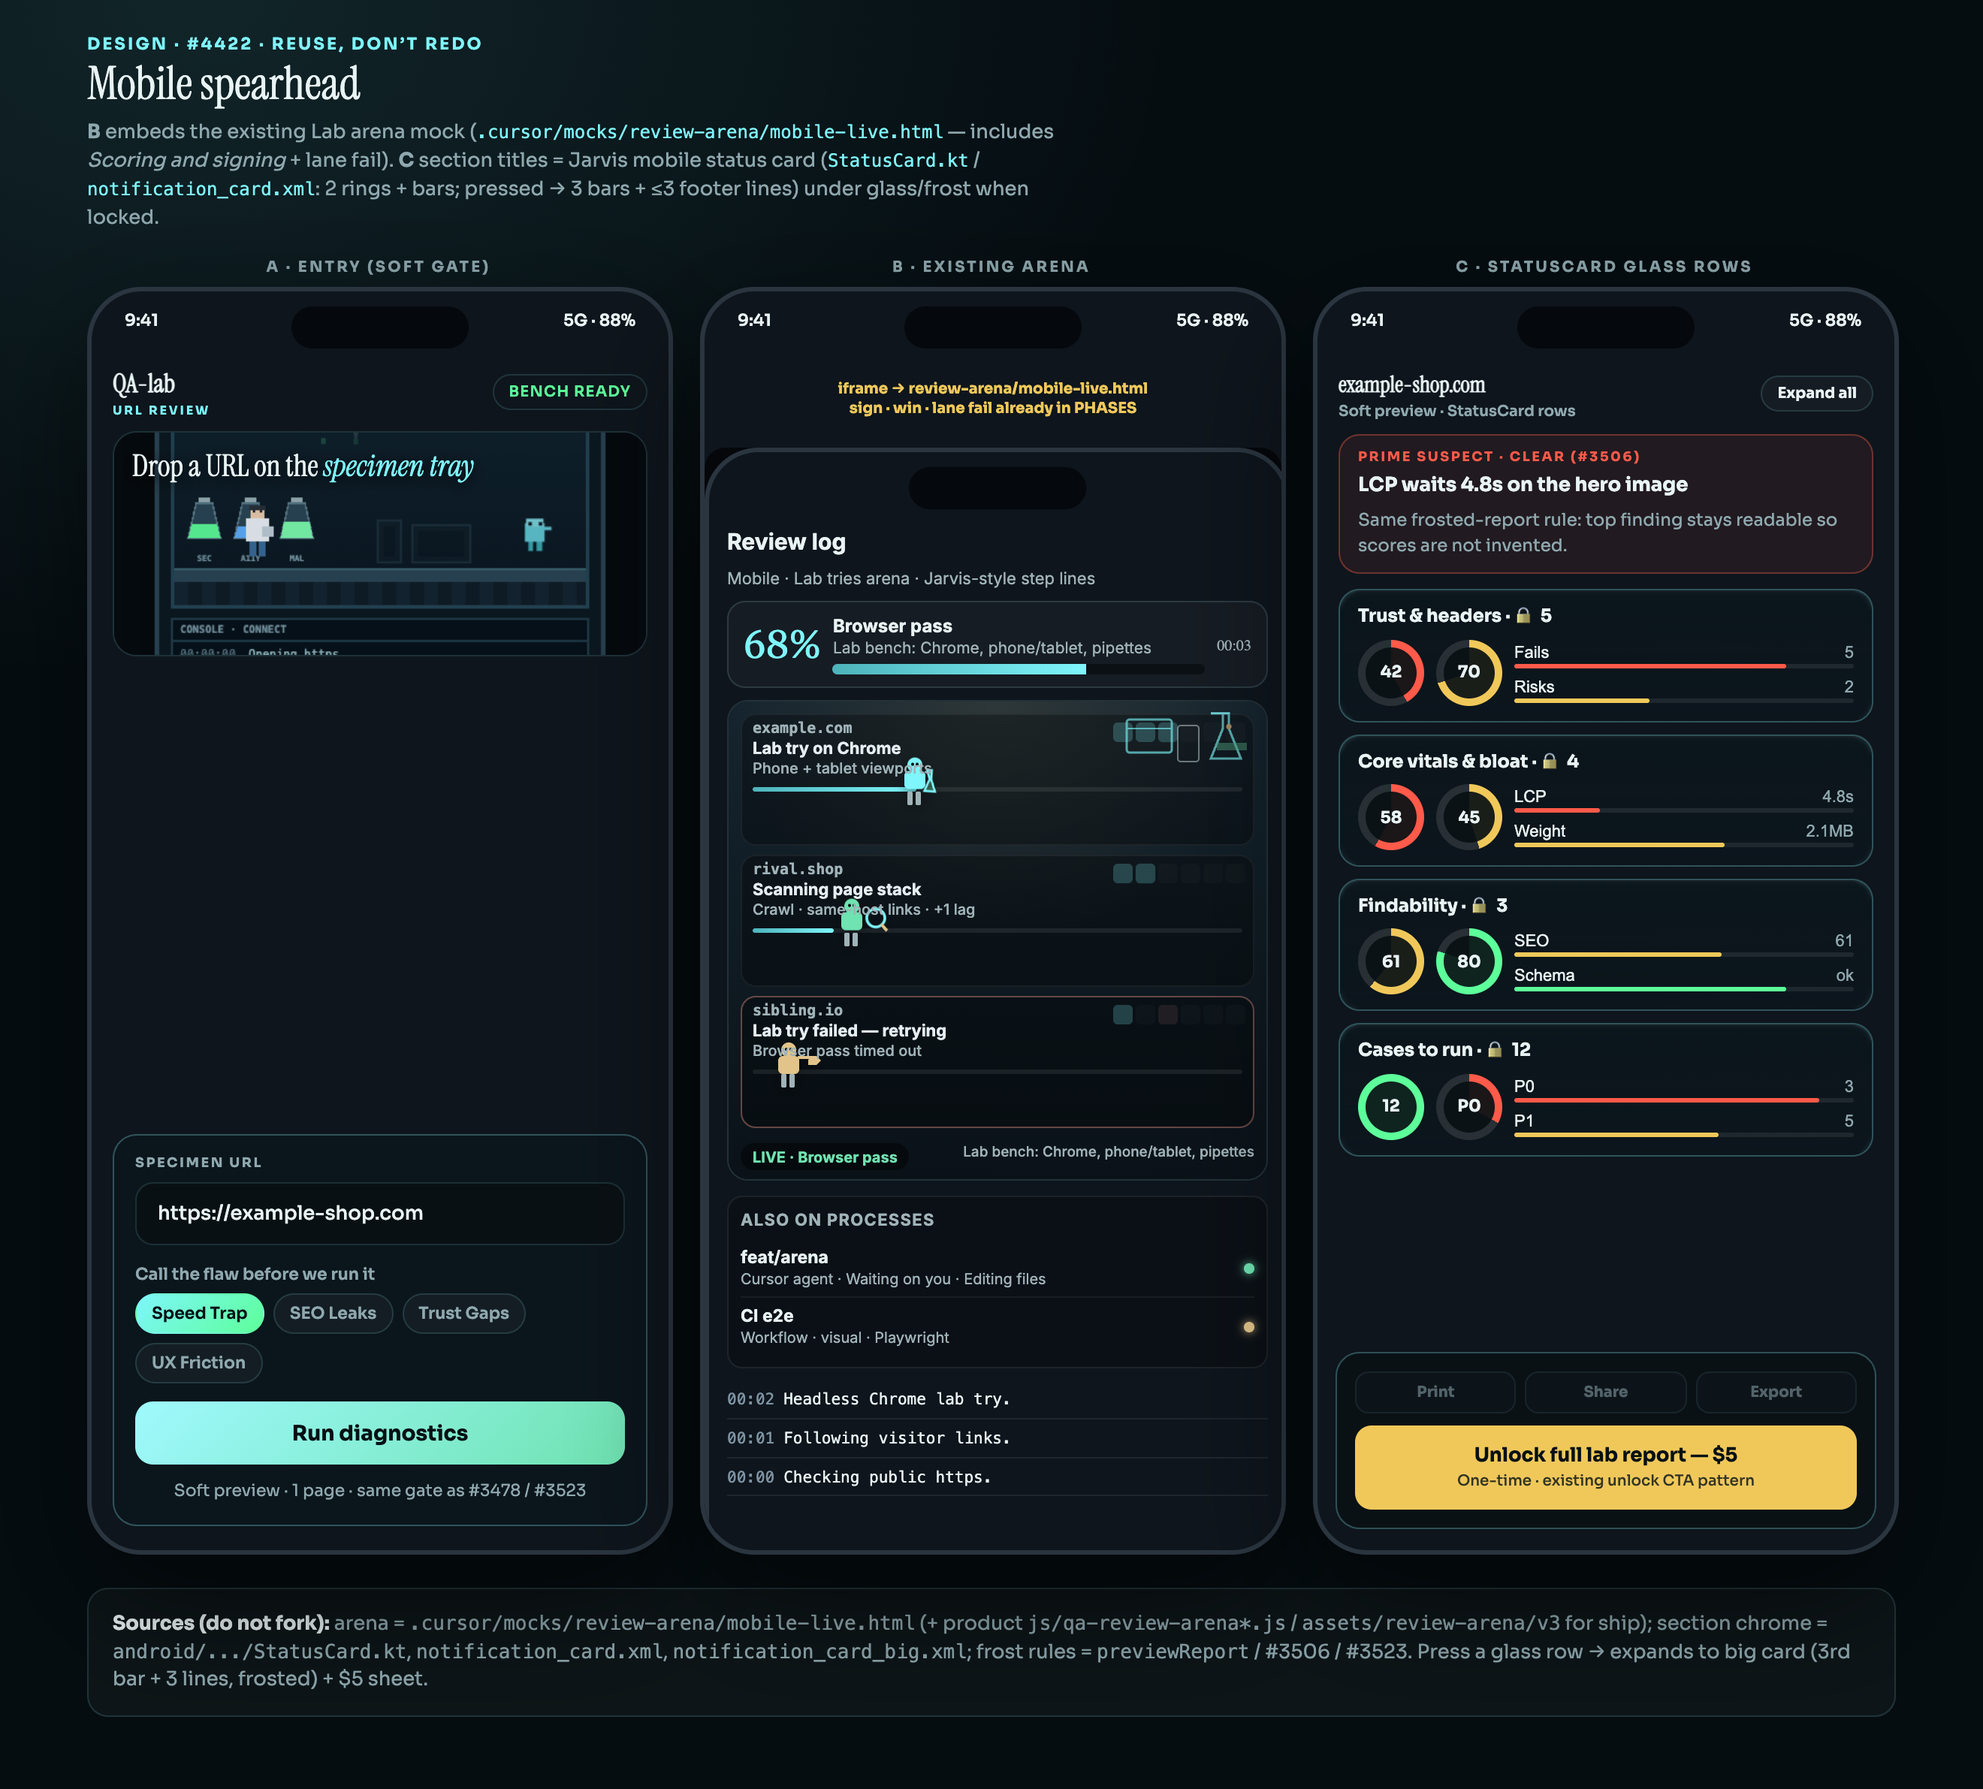
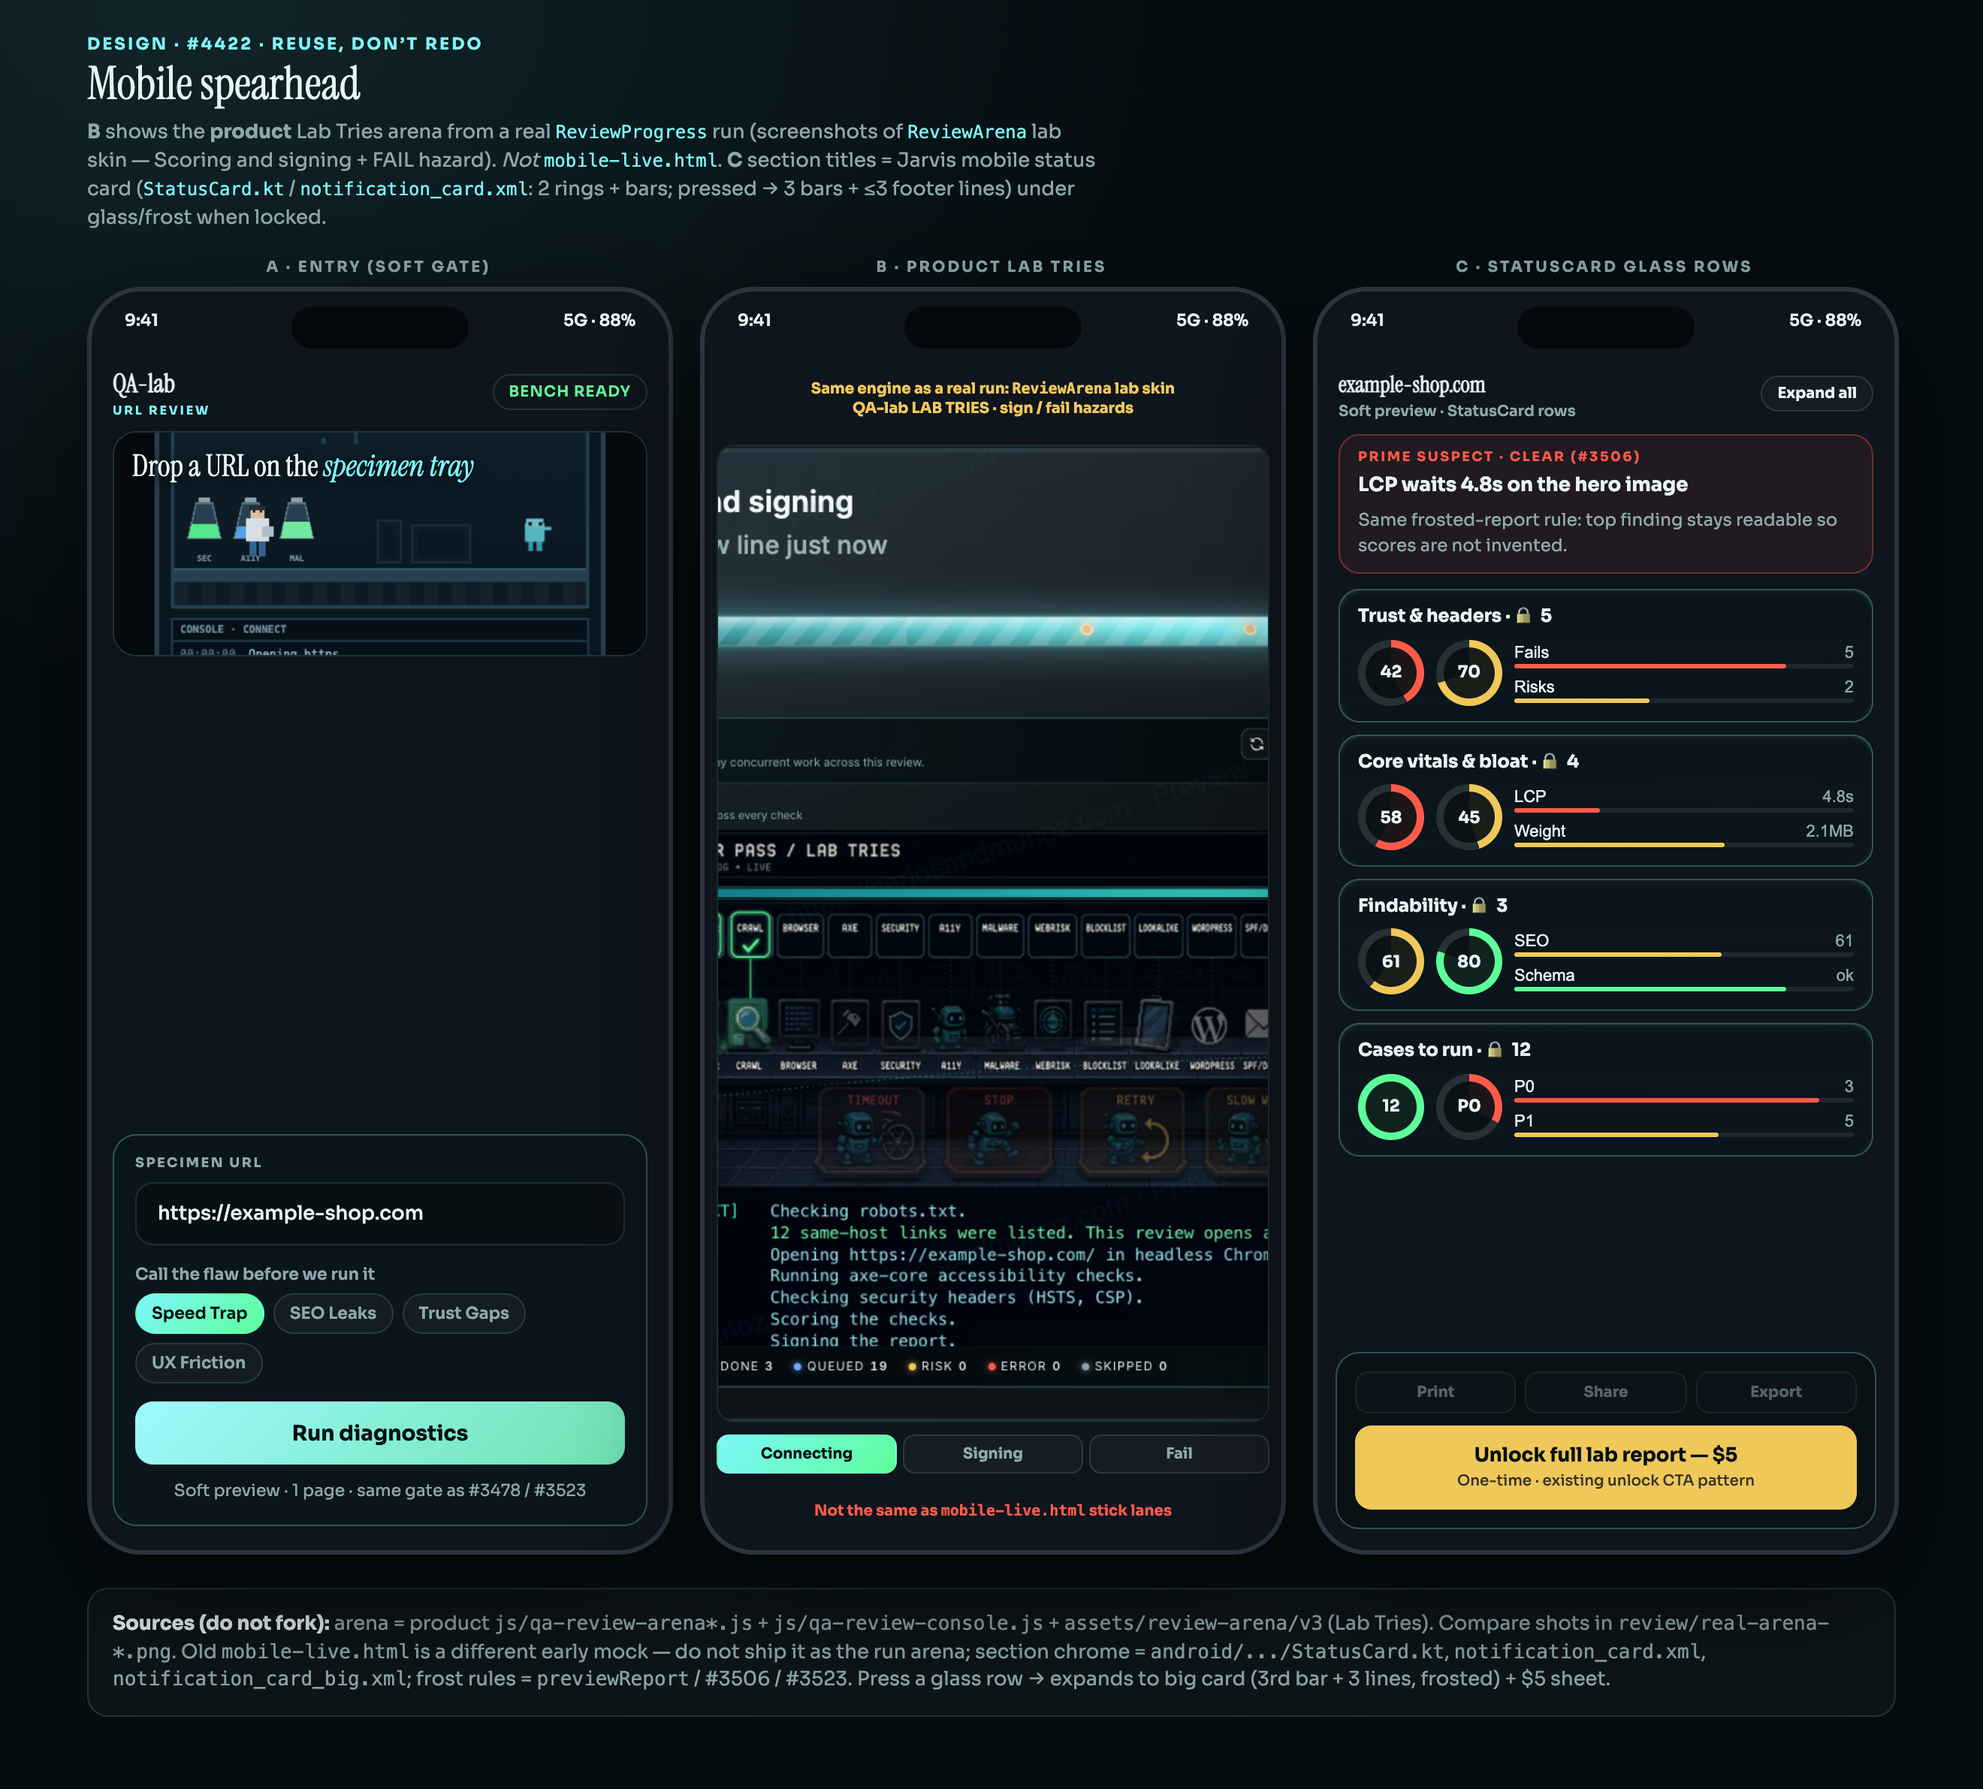
Design: spearhead uses real Lab Tries arena shots (#4422).
Compared a live ReviewArena run vs mobile-live.html — not the same. Mock B now shows product Lab Tries (signing/fail); StatusCards gain expand-only rings, result icons, and richer lines.

diff --git a/.cursor/mocks/mobile-spearhead/index.html b/.cursor/mocks/mobile-spearhead/index.html
@@ -64,10 +64,21 @@
   .proof { margin: 10px 0 0; text-align: center; font-size: 11px; color: var(--muted); }
 
   /* —— Arena: EXISTING mobile-live.html (sign + lane fail) —— */
-  .arena-frame {
-    flex: 1; border: 0; border-radius: 14px; width: 100%;
-    background: #0e151c;
-  }
+  .arena-frame { flex: 1; border: 0; border-radius: 14px; width: 100%; background: #0e151c; }
+  .arena-real { flex: 1; display: flex; flex-direction: column; gap: 8px; min-height: 0; }
+  .arena-real img { flex: 1; width: 100%; object-fit: cover; object-position: top center; border-radius: 12px; border: 1px solid var(--line); background: #050d11; }
+  .arena-tabs { display: grid; grid-template-columns: repeat(3, 1fr); gap: 4px; }
+  .arena-tabs button { border: 1px solid var(--line); background: rgba(255,255,255,.03); color: var(--muted); border-radius: 8px; padding: 7px 4px; font: 650 10px/1 var(--font-ui); cursor: pointer; }
+  .arena-tabs button.on { color: #041014; background: linear-gradient(135deg, var(--cyan), var(--mint)); border-color: transparent; }
+  .icons { display: none; gap: 4px; flex-wrap: wrap; margin-top: 8px; position: relative; z-index: 1; }
+  .scard.open .icons { display: flex; }
+  .icons span { font: 650 9px/1 var(--font-ui); padding: 4px 6px; border-radius: 6px; border: 1px solid var(--line); color: var(--muted); background: rgba(0,0,0,.25); }
+  .icons span.bad { color: var(--coral); border-color: rgba(255,90,74,.35); }
+  .icons span.warn { color: var(--gold); border-color: rgba(240,200,90,.35); }
+  .icons span.ok { color: var(--mint); border-color: rgba(93,255,154,.35); }
+  .ring-extra { display: none; gap: 8px; margin-top: 8px; position: relative; z-index: 1; }
+  .scard.open .ring-extra { display: flex; }
+
   .reuse-tag {
     font: 650 10px/1.3 var(--font-ui); color: var(--gold); text-align: center;
   }
@@ -174,8 +185,8 @@
       <div class="ticket">Design · #4422 · reuse, don’t redo</div>
       <h1>Mobile spearhead</h1>
       <p class="lede">
-        <strong>B</strong> embeds the existing Lab arena mock
-        (<code>.cursor/mocks/review-arena/mobile-live.html</code> — includes <em>Scoring and signing</em> + lane fail).
+        <strong>B</strong> shows the <strong>product</strong> Lab Tries arena from a real <code>ReviewProgress</code> run
+        (screenshots of <code>ReviewArena</code> lab skin — Scoring and signing + FAIL hazard). <em>Not</em> <code>mobile-live.html</code>.
         <strong>C</strong> section titles = Jarvis mobile status card
         (<code>StatusCard.kt</code> / <code>notification_card.xml</code>: 2 rings + bars; pressed → 3 bars + ≤3 footer lines) under glass/frost when locked.
       </p>
@@ -215,15 +226,23 @@
         </div>
       </div>
 
-      <!-- B ARENA — existing videogame arena -->
+      <!-- B ARENA — PRODUCT Lab Tries (ReviewArena), not mobile-live.html -->
       <div>
-        <p class="col-label">B · Existing arena</p>
+        <p class="col-label">B · Product Lab Tries</p>
         <div class="phone" id="phone-b">
           <div class="notch"></div>
           <div class="status"><span>9:41</span><span>5G · 88%</span></div>
-          <div class="screen" style="padding:48px 0 10px">
-            <p class="reuse-tag">iframe → review-arena/mobile-live.html<br>sign · win · lane fail already in PHASES</p>
-            <iframe class="arena-frame" title="Existing Lab arena mock" src="../review-arena/mobile-live.html"></iframe>
+          <div class="screen" style="padding:48px 8px 10px; gap:8px">
+            <p class="reuse-tag">Same engine as a real run: <code>ReviewArena</code> lab skin<br>QA-lab LAB TRIES · sign / fail hazards</p>
+            <div class="arena-real" id="arena-real">
+              <img src="review/real-arena-signing.png" alt="Real product Lab Tries arena during Scoring and signing" id="arena-shot">
+              <div class="arena-tabs" role="tablist">
+                <button type="button" class="on" data-shot="review/real-arena-progress.png">Connecting</button>
+                <button type="button" data-shot="review/real-arena-signing.png">Signing</button>
+                <button type="button" data-shot="review/real-arena-fail.png">Fail</button>
+              </div>
+            </div>
+            <p class="reuse-tag" style="color:var(--coral)">Not the same as <code>mobile-live.html</code> stick lanes</p>
           </div>
         </div>
       </div>
@@ -261,7 +280,7 @@
             <div class="sections" id="sections">
               <!-- Collapsed StatusCard: 2 rings + 2 bars -->
               <button type="button" class="scard locked" data-locked="1"
-                data-lines="HSTS missing on apex.&#10;CSP report-only only.&#10;3 cookies lack Secure.">
+                data-lines="HSTS missing on apex — browsers skip preload.&#10;CSP is report-only; XSS still lands.&#10;3 cookies lack Secure + SameSite=None.">
                 <div class="title">Trust &amp; headers · 🔒 5</div>
                 <div class="scard-row">
                   <div class="rings">
@@ -274,11 +293,19 @@
                     <div class="bar-row" hidden data-bar3><div class="lab"><span>Pass</span><span>6</span></div><div class="bar-track"><i style="width:55%;--bar:var(--mint)"></i></div></div>
                   </div>
                 </div>
+                <div class="ring-extra">
+                  <div class="ring" style="--pct:20;--ring:var(--coral)"><b>HSTS</b></div>
+                  <div class="ring" style="--pct:35;--ring:var(--gold)"><b>CSP</b></div>
+                  <div class="ring" style="--pct:55;--ring:var(--teal)"><b>CK</b></div>
+                </div>
+                <div class="icons">
+                  <span class="bad">shield ✕</span><span class="bad">hsts</span><span class="warn">csp</span><span class="bad">cookies</span><span class="ok">tls</span>
+                </div>
                 <div class="footer"></div>
               </button>
 
               <button type="button" class="scard locked" data-locked="1"
-                data-lines="LCP 4.8s hero.&#10;2 render-blocking CSS.&#10;CLS 0.18 on carousel.">
+                data-lines="LCP 4.8s — unsized hero &lt;img&gt;.&#10;2 render-blocking CSS in &lt;head&gt;.&#10;CLS 0.18 on promo carousel.">
                 <div class="title">Core vitals &amp; bloat · 🔒 4</div>
                 <div class="scard-row">
                   <div class="rings">
@@ -291,11 +318,19 @@
                     <div class="bar-row" hidden data-bar3><div class="lab"><span>CLS</span><span>0.18</span></div><div class="bar-track"><i style="width:40%;--bar:var(--gold)"></i></div></div>
                   </div>
                 </div>
+                <div class="ring-extra">
+                  <div class="ring" style="--pct:15;--ring:var(--coral)"><b>LCP</b></div>
+                  <div class="ring" style="--pct:40;--ring:var(--gold)"><b>INP</b></div>
+                  <div class="ring" style="--pct:30;--ring:var(--coral)"><b>CLS</b></div>
+                </div>
+                <div class="icons">
+                  <span class="bad">lcp</span><span class="warn">css×2</span><span class="bad">cls</span><span class="warn">weight</span>
+                </div>
                 <div class="footer"></div>
               </button>
 
               <button type="button" class="scard locked" data-locked="1"
-                data-lines="Canonical self-ref ok.&#10;Missing OG image.&#10;2 thin title tags.">
+                data-lines="Canonical self-ref ok.&#10;Missing OG image on PDP.&#10;2 thin title tags under 20 chars.">
                 <div class="title">Findability · 🔒 3</div>
                 <div class="scard-row">
                   <div class="rings">
@@ -308,11 +343,14 @@
                     <div class="bar-row" hidden data-bar3><div class="lab"><span>Social</span><span>gap</span></div><div class="bar-track"><i style="width:35%;--bar:var(--coral)"></i></div></div>
                   </div>
                 </div>
+                <div class="icons">
+                  <span class="ok">canonical</span><span class="bad">og:image</span><span class="warn">titles</span><span class="ok">schema</span>
+                </div>
                 <div class="footer"></div>
               </button>
 
               <button type="button" class="scard locked" data-locked="1"
-                data-lines="P0 checkout path.&#10;P1 mobile nav.&#10;P2 a11y name on CTA.">
+                data-lines="P0: checkout · pay · confirm.&#10;P1: mobile nav + search.&#10;P2: a11y name missing on primary CTA.">
                 <div class="title">Cases to run · 🔒 12</div>
                 <div class="scard-row">
                   <div class="rings">
@@ -324,6 +362,9 @@
                     <div class="bar-row"><div class="lab"><span>P1</span><span>5</span></div><div class="bar-track"><i style="width:60%;--bar:var(--gold)"></i></div></div>
                     <div class="bar-row" hidden data-bar3><div class="lab"><span>P2</span><span>4</span></div><div class="bar-track"><i style="width:40%;--bar:var(--teal)"></i></div></div>
                   </div>
+                </div>
+                <div class="icons">
+                  <span class="bad">playwright</span><span class="warn">mobile</span><span class="ok">axe</span><span class="warn">checkout</span>
                 </div>
                 <div class="footer"></div>
               </button>
@@ -347,7 +388,7 @@
 
     <div class="note">
       <strong>Sources (do not fork):</strong>
-      arena = <code>.cursor/mocks/review-arena/mobile-live.html</code> (+ product <code>js/qa-review-arena*.js</code> / <code>assets/review-arena/v3</code> for ship);
+      arena = product <code>js/qa-review-arena*.js</code> + <code>js/qa-review-console.js</code> + <code>assets/review-arena/v3</code> (Lab Tries). Compare shots in <code>review/real-arena-*.png</code>. Old <code>mobile-live.html</code> is a different early mock — do not ship it as the run arena;
       section chrome = <code>android/.../StatusCard.kt</code>, <code>notification_card.xml</code>, <code>notification_card_big.xml</code>;
       frost rules = <code>previewReport</code> / #3506 / #3523.
       Press a glass row → expands to big card (3rd bar + 3 lines, frosted) + $5 sheet.
@@ -355,6 +396,14 @@
   </div>
 <script>
 (function () {
+  document.querySelector('.arena-tabs')?.addEventListener('click', (e) => {
+    const btn = e.target.closest('button[data-shot]');
+    if (!btn) return;
+    document.querySelectorAll('.arena-tabs button').forEach((b) => b.classList.remove('on'));
+    btn.classList.add('on');
+    document.getElementById('arena-shot').src = btn.dataset.shot;
+  });
+
   document.getElementById('chips').addEventListener('click', (e) => {
     const chip = e.target.closest('.chip');
     if (!chip) return;

diff --git a/spearhead-arena-harness.html b/spearhead-arena-harness.html
@@ -1,0 +1,61 @@
+<!DOCTYPE html>
+<html lang="en">
+<head>
+<meta charset="utf-8">
+<meta name="viewport" content="width=390, initial-scale=1">
+<title>Spearhead harness — product Lab Tries arena</title>
+<!-- Same engines as qa-review.html during a run. Serve from repo root (python -m http.server). -->
+<link rel="stylesheet" href="css/qa-review-progress.css?v=spearhead">
+<link rel="stylesheet" href="css/qa-review-arena.css?v=20261120g">
+<style>
+  html, body { margin: 0; background: #050d11; color: #e8f3f4; font: 13px/1.4 Inter, system-ui, sans-serif; }
+  body { padding: 8px; }
+  .tag { margin: 0 0 8px; font: 700 10px/1.3 Inter, system-ui, sans-serif; letter-spacing: .08em; text-transform: uppercase; color: #f0c85a; }
+  .rp { max-width: 100%; }
+</style>
+</head>
+<body>
+<p class="tag">Product arena · ReviewArena lab skin · not mobile-live.html</p>
+<script>
+try { sessionStorage.setItem('qa-review-arena-skin', 'lab'); } catch (e) {}
+</script>
+<script src="js/qa-review-progress.js"></script>
+<script src="js/qa-review-arena-facts.js?v=20261120a"></script>
+<script src="js/qa-review-arena-atlas.js?v=20261120a"></script>
+<script src="js/qa-review-arena-motion.js?v=20261120e"></script>
+<script src="js/qa-review-console.js?v=20261120g"></script>
+<script src="js/qa-review-arena.js?v=20261120g"></script>
+<script>
+(function () {
+  function boot() {
+    if (!window.ReviewProgress || !window.ReviewArena) return setTimeout(boot, 50);
+    ReviewArena.forceSkin('lab');
+    ReviewProgress.start({ host: 'example-shop.com', pages: 5 });
+    const lines = [
+      'Checking robots.txt.',
+      '12 same-host links were listed. This review opens at most 5 HTML pages and 2 links deep.',
+      'Opening https://example-shop.com/ in headless Chrome.',
+      'Running axe-core accessibility checks.',
+      'Checking security headers (HSTS, CSP).',
+      'Scoring the checks.',
+      'Signing the report.',
+    ];
+    let i = 0;
+    function tick() {
+      if (i < lines.length) {
+        ReviewProgress.line(lines[i++]);
+        setTimeout(tick, 900);
+      } else {
+        setTimeout(function () {
+          ReviewProgress.line('Headless Chrome timed out on /checkout.');
+          ReviewArena.fail();
+        }, 1200);
+      }
+    }
+    setTimeout(tick, 600);
+  }
+  boot();
+})();
+</script>
+</body>
+</html>
